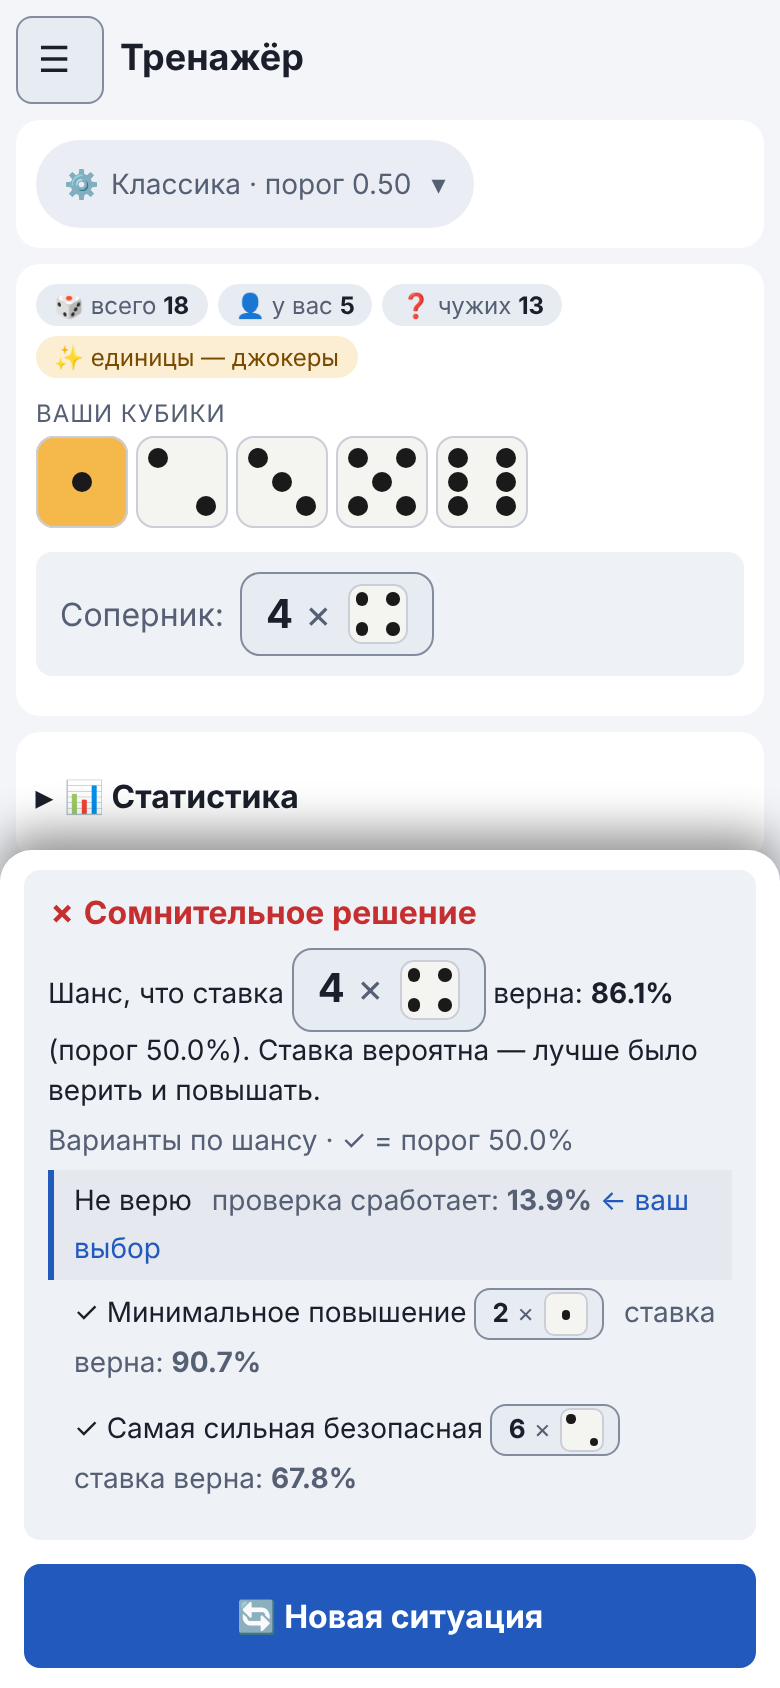
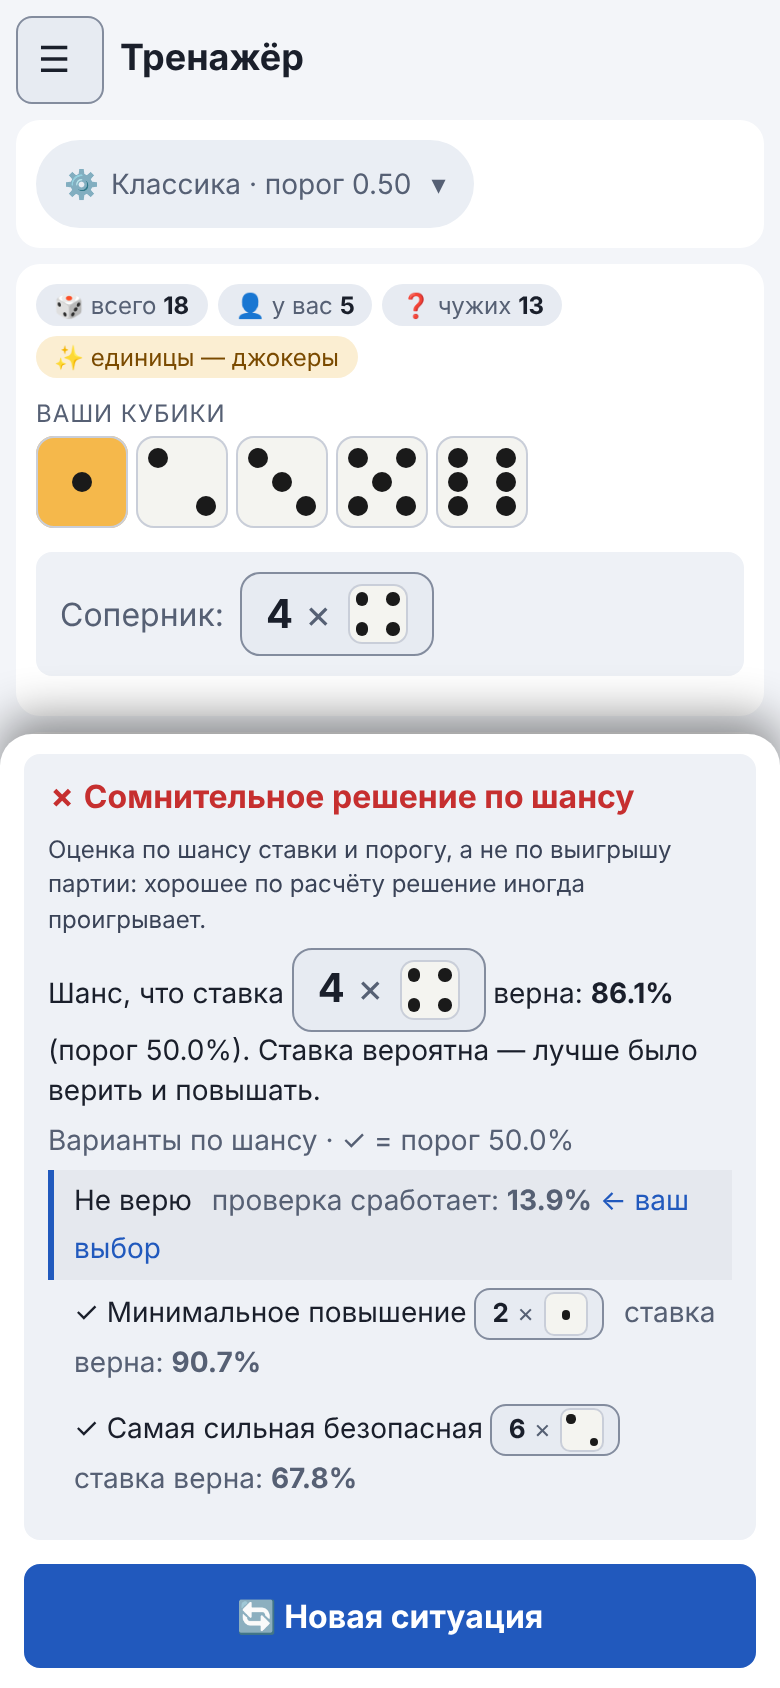
Тренажёр: вердикт «по шансу» и оговорка модели
Заголовок оценки теперь «Хорошее / Сомнительное решение по шансу», под ним
строка: оценка идёт по шансу ставки и порогу, а не по выигрышу партии.
Тексты в чистом модуле trainer_text.js. Руководство и два снимка Тренажёра
обновлены, подписи в эмуляторе тренажёра согласованы. В план отмечен пункт
W1-05.

Changed region(s): [[0.0, 0.4005, 1.0, 0.5545]]

diff --git a/tests/e2e/learning.spec.js b/tests/e2e/learning.spec.js
@@ -217,6 +217,15 @@ test.describe('Учебные вкладки', () => {
       await expect(page.locator('#tFb')).toContainText('Ваша ставка');
     });
 
+    test('вердикт назван «по шансу», под ним оговорка: оценка не про выигрыш партии', async ({ page }) => {
+      await open(page, 'train');
+      await page.click('#tDudo');
+      const big = page.locator('#tFb .big');
+      await expect(big).toHaveText(/(Хорошее|Сомнительное) решение по шансу$/);
+      await expect(page.locator('#tFb .trainer-model-note')).toHaveText(/по шансу ставки и порогу, а не по выигрышу партии/);
+      expect(await page.locator('#tFb').textContent()).not.toMatch(/undefined|NaN|блеф|обман/i);
+    });
+
     test('недопустимая ставка отклоняется и не попадает в статистику', async ({ page }) => {
       await open(page, 'train');
       const before = await page.locator('#tStat').textContent();
@@ -226,6 +235,7 @@ test.describe('Учебные вкладки', () => {
       await page.click('#tRaise');
       await expect(page.locator('#tFb')).toContainText(/не меньше|нельзя/);
       await expect(page.locator('#tFb')).not.toContainText('Хорошее решение');
+      await expect(page.locator('#tFb')).not.toContainText('не по выигрышу партии');   // оговорка только у оценки
       await expect(page.locator('#tLayout')).not.toHaveClass(/is-answered/);
       expect(await page.locator('#tStat').textContent()).toBe(before);
     });

diff --git a/docs/guide/trainer.html b/docs/guide/trainer.html
@@ -29,6 +29,7 @@
       <li>Нажмите <strong>«Не верю!»</strong> или выберите свою ставку и нажмите <strong>«Ставлю»</strong>. Поля ставки сразу заполнены минимальной допустимой ставкой.</li>
       <li>Прочитайте оценку: шанс, что ставка верна, и порог.</li>
     </ol>
+    <p>Заголовок оценки: <strong>«Хорошее решение по шансу»</strong> или <strong>«Сомнительное решение по шансу»</strong>. Под ним оговорка: оценка идёт по шансу ставки при ваших кубиках и по порогу, а не по выигрышу партии. Решение с высоким шансом иногда проигрывает, и это не ошибка.</p>
     <p>Под оценкой показаны <strong>варианты хода по шансу ставки</strong>: «Не верю» (с каким шансом проверка сработает), минимальное повышение и самая сильная безопасная ставка. Ваш выбор отмечен. Это сравнение по шансам, а не оценка выигрыша: оно не говорит, какой ход «лучший», а показывает цену каждого.</p>
 
     <figure>

diff --git a/tests/trainer_text.test.js b/tests/trainer_text.test.js
@@ -1,0 +1,20 @@
+import { describe, it } from 'node:test';
+import assert from 'node:assert/strict';
+import { verdictText, VERDICT_GOOD, VERDICT_BAD, MODEL_NOTE } from '../src/trainer_text.js';
+
+describe('trainer_text', () => {
+  it('вердикт: верное и сомнительное решение, оба «по шансу»', () => {
+    assert.equal(verdictText(true), VERDICT_GOOD);
+    assert.equal(verdictText(false), VERDICT_BAD);
+    for (const v of [VERDICT_GOOD, VERDICT_BAD]) assert.match(v, /по шансу$/);
+    assert.match(VERDICT_GOOD, /Хорошее решение/);
+    assert.match(VERDICT_BAD, /Сомнительное решение/);
+  });
+  it('оговорка называет, что именно оценено, и что это не выигрыш партии', () => {
+    assert.match(MODEL_NOTE, /по шансу ставки/);
+    assert.match(MODEL_NOTE, /не по выигрышу партии/);
+  });
+  it('в текстах нет запрещённых слов и абсолютных обещаний', () => {
+    for (const t of [VERDICT_GOOD, VERDICT_BAD, MODEL_NOTE]) assert.doesNotMatch(t, /обманщик|врёт|блеф|гарантир|всегда|лучший ход/i);
+  });
+});

diff --git a/src/trainer_text.js b/src/trainer_text.js
@@ -1,0 +1,14 @@
+// trainer_text.js — подписи вердикта в Тренажёре. Чистый модуль: без DOM.
+//
+// Оценка «хорошее / сомнительное» считается по шансу ставки при ваших кубиках и порогу, а не по выигрышу партии:
+// решение с высоким шансом иногда проигрывает, и наоборот. Поэтому в подписи есть «по шансу», а под ней оговорка.
+
+export const VERDICT_GOOD = '✓ Хорошее решение по шансу';
+export const VERDICT_BAD = '✗ Сомнительное решение по шансу';
+
+export const MODEL_NOTE = 'Оценка по шансу ставки и порогу, а не по выигрышу партии: хорошее по расчёту решение иногда проигрывает.';
+
+/** Заголовок вердикта. */
+export function verdictText(good) {
+  return good ? VERDICT_GOOD : VERDICT_BAD;
+}

diff --git a/src/ui/trainer.js b/src/ui/trainer.js
@@ -9,6 +9,7 @@ import { optionsHtml } from './options_view.js';
 import { pickRepeat, situationKey } from '../repeat_pick.js';
 import { checkRaise, defaultRaise } from '../trainer_rules.js';
 import { TABLE_TRUST } from '../table_read.js';
+import { verdictText, MODEL_NOTE } from '../trainer_text.js';
 import { buildLadder, sanitizeLadder, ladderChances, ladderLines, gradeDudo, gradeRaise, addLadderResult } from '../ladder.js';
 
 export function setupTrainer() {
@@ -213,7 +214,8 @@ export function setupTrainer() {
     persist();
     if ($('#tFb')) {
       $('#tFb').innerHTML =
-        `<div class="big ${good ? 'text-ok' : 'text-bad'}">${good ? '✓ Хорошее решение' : '✗ Сомнительное решение'}</div>${html}`;
+        `<div class="big ${good ? 'text-ok' : 'text-bad'}">${verdictText(good)}</div>` +
+        `<p class="trainer-model-note">${MODEL_NOTE}</p>${html}`;
     }
     setAnswered(true);
     $('#tNext')?.focus();

diff --git a/src/css/trainer.css b/src/css/trainer.css
@@ -240,6 +240,13 @@
   margin: 4px 0;
 }
 
+/* Оговорка под вердиктом: оценка по шансу, а не по выигрышу партии */
+.trainer-feedback .trainer-model-note {
+  margin: 0 0 6px;
+  font-size: 12px;
+  color: var(--text-soft);
+}
+
 /* Статистика — свёрнута */
 .trainer-stats-card>summary {
   cursor: pointer;

diff --git a/tools/trainer_emulator.py b/tools/trainer_emulator.py
@@ -215,7 +215,7 @@ BOT_RU = {**{k: v["name"] for k, v in BOT_STYLES.items()},
           "random_legal": "Случайный (легальные ходы)",
           "random_any": "Случайный (любые ходы)",
           "safe_max_ignore_rules": "Макс. безопасная (без учёта правил)"}
-VERDICT_RU = {"good": "Хорошее решение", "bad": "Сомнительное решение"}
+VERDICT_RU = {"good": "Хорошее решение по шансу", "bad": "Сомнительное решение по шансу"}
 
 def bot_move(kind, cur, level, rng, thr):
     n, h, wild = cur["n"], cur["h"], cur["m"]["wild"]; bid = {"q": cur["q"], "f": cur["f"]}

diff --git a/docs/dev/roadmap.md b/docs/dev/roadmap.md
@@ -4,7 +4,7 @@
 
 **Как вести файл.** Пункт выполнен, когда его патч применён и проверен: в строке меняется `[ ]` на `[x]` и в поле «Патч» ставится номер. Отметку делает тот же патч, который закрывает пункт. Тест `tests/roadmap.test.js` следит, чтобы ID не повторялись, у выполненных был номер патча, а счётчик ниже совпадал со списком.
 
-Выполнено: 5 из 25
+Выполнено: 6 из 25
 
 Формат строки: `- [ ] **ID** · размер (S, M, L) · название (замечания из отчёта) — критерий готовности. Патч: номер или —`.
 
@@ -18,7 +18,7 @@
 - [x] **W1-02** · S · Кнопка итога «Разобрать партию» вместо «Перейти к расчёту» (UX-11) — название обещает то, что открывается; страница `game-review.html` и тесты обновлены. Патч: 129
 - [x] **W1-03** · S · Вероятность человеческим языком в калькуляторе (UX-04) — рядом с процентом видно: «Ставка верна — …%; проверка успешна — …%». Патч: 130
 - [x] **W1-04** · S · Пример к полю чтения ставок (UX-16) — подпись объясняет, что вводится размер рук ставивших, а не ожидаемые совпадения. Патч: 131
-- [ ] **W1-05** · S · Оговорка модели у «Хорошего решения» в Тренажёре (UX-15) — на экране сказано, что оценка идёт по шансу ставки, а не по выигрышу партии. Патч: —
+- [x] **W1-05** · S · Оговорка модели у «Хорошего решения» в Тренажёре (UX-15) — на экране сказано, что оценка идёт по шансу ставки, а не по выигрышу партии. Патч: 132
 - [ ] **W1-06** · S · Вводная «Упражнений» перечисляет все три упражнения (UX-13) — есть ссылка на «Читай вскрытие». Патч: —
 - [ ] **W1-07** · S · Кнопки копии названы через цель (UX-17) — «Скачать резервную копию» и «Восстановить из файла», JSON вторым уровнем. Патч: —
 - [ ] **W1-08** · S · Тексты Симуляции и Дуэли (UX-10, UX-12) — у Симуляции указаны условия сравнения с калькулятором, у Дуэли пометка «продвинутый режим» и мягкая формулировка про редкие действия. Патч: —

diff --git a/docs/dev/architecture.md b/docs/dev/architecture.md
@@ -51,6 +51,7 @@ src/
 ├── drill_note.js    пояснения к ответу в «Оценке в уме»             ← чистая логика
 ├── read_drill.js    упражнение «Читай вскрытие»: задание по раунду и проверка ← чистая логика
 ├── game_picture.js  «Картина партии»: кубики по раундам, потери, переломный раунд, лидер ← чистая логика
+├── trainer_text.js  подписи вердикта в Тренажёре: «по шансу» и оговорка модели ← чистая логика
 ├── calc_text.js     пояснение к проценту в калькуляторе: шанс ставки и шанс проверки ← чистая логика
 ├── bot_pace.js      темп ходов ботов: задержка или «Пошагово» (ход по кнопке) ← чистая логика
 ├── guess.js         догадка перед вскрытием: «цифра в руке есть / нет», проверка, счётчик ← чистая логика
